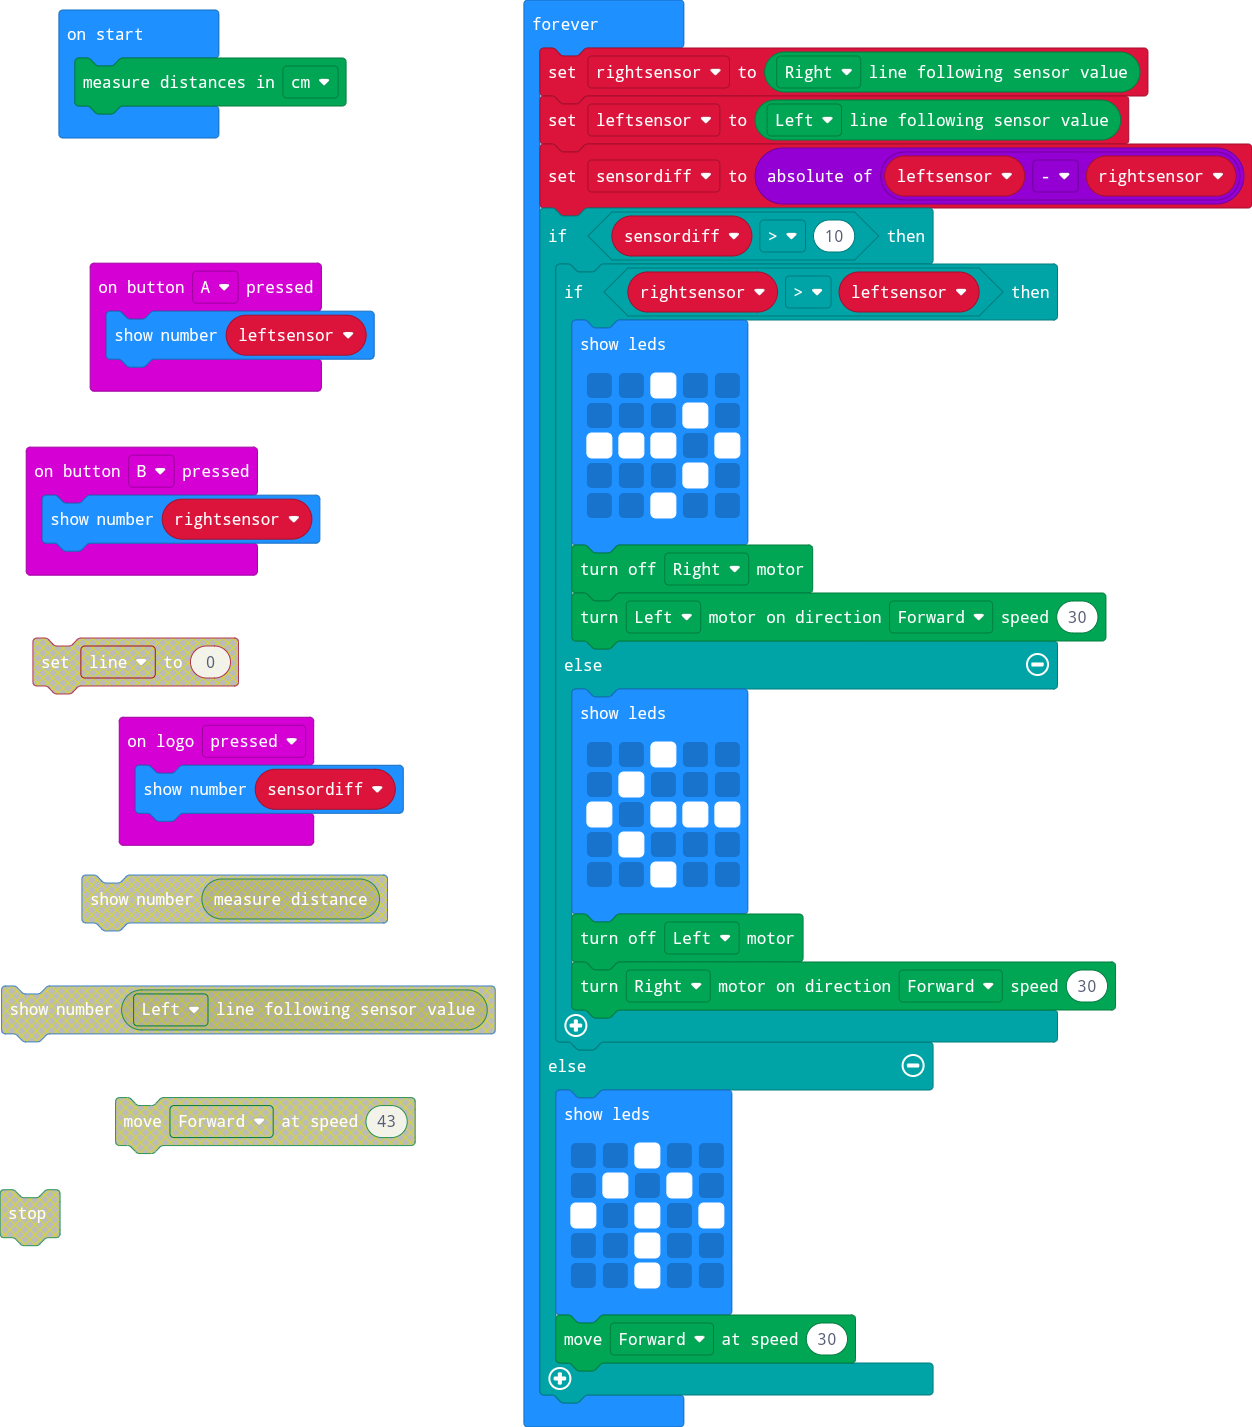
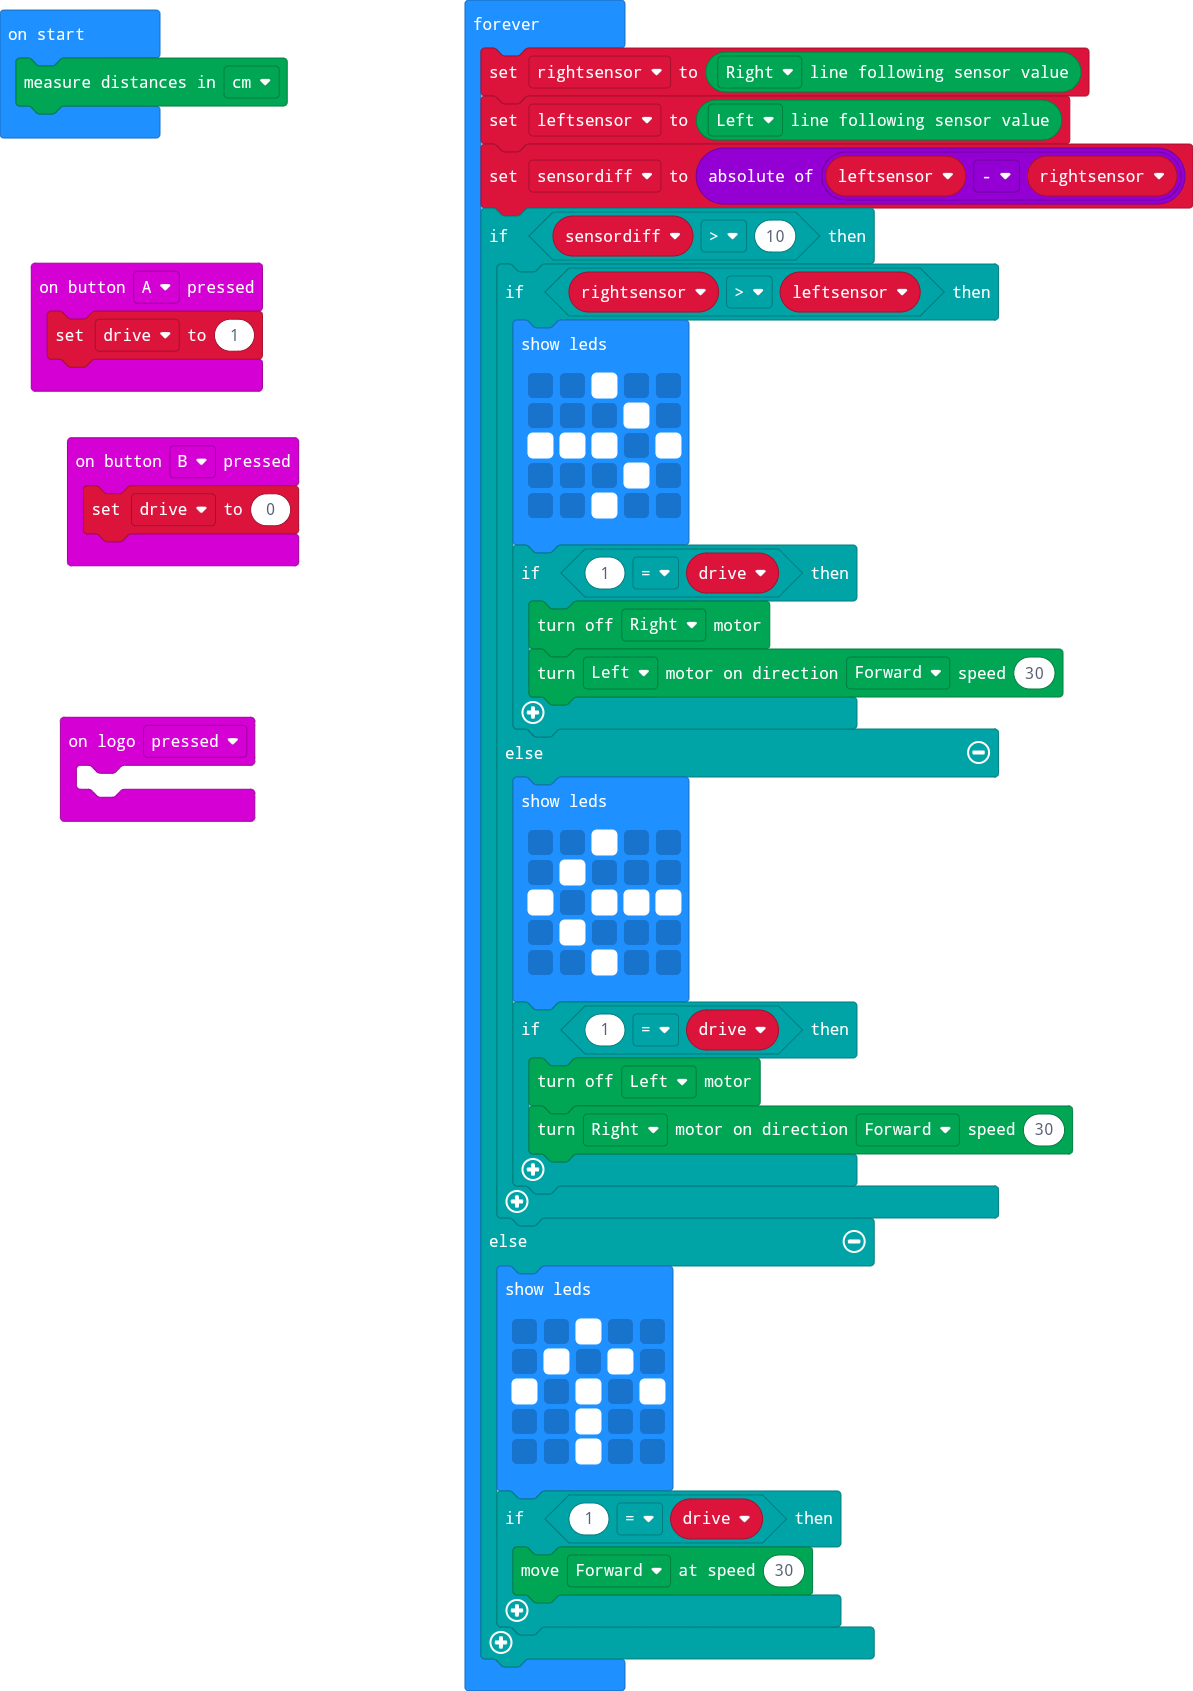
Update main.blocks, main.ts

diff --git a/main.ts b/main.ts
@@ -1,15 +1,16 @@
 input.onButtonPressed(Button.A, function () {
-    basic.showNumber(leftsensor)
+    drive = 1
 })
 input.onButtonPressed(Button.B, function () {
-    basic.showNumber(rightsensor)
+    drive = 0
 })
 input.onLogoEvent(TouchButtonEvent.Pressed, function () {
-    basic.showNumber(sensordiff)
+	
 })
 let sensordiff = 0
-let rightsensor = 0
 let leftsensor = 0
+let rightsensor = 0
+let drive = 0
 Kitronik_Move_Motor.setUltrasonicUnits(Kitronik_Move_Motor.Units.Centimeters)
 basic.forever(function () {
     rightsensor = Kitronik_Move_Motor.readSensor(Kitronik_Move_Motor.LfSensor.Right)
@@ -24,8 +25,10 @@ basic.forever(function () {
                 . . . # .
                 . . # . .
                 `)
-            Kitronik_Move_Motor.motorOff(Kitronik_Move_Motor.Motors.MotorRight)
-            Kitronik_Move_Motor.motorOn(Kitronik_Move_Motor.Motors.MotorLeft, Kitronik_Move_Motor.MotorDirection.Forward, 30)
+            if (1 == drive) {
+                Kitronik_Move_Motor.motorOff(Kitronik_Move_Motor.Motors.MotorRight)
+                Kitronik_Move_Motor.motorOn(Kitronik_Move_Motor.Motors.MotorLeft, Kitronik_Move_Motor.MotorDirection.Forward, 30)
+            }
         } else {
             basic.showLeds(`
                 . . # . .
@@ -34,8 +37,10 @@ basic.forever(function () {
                 . # . . .
                 . . # . .
                 `)
-            Kitronik_Move_Motor.motorOff(Kitronik_Move_Motor.Motors.MotorLeft)
-            Kitronik_Move_Motor.motorOn(Kitronik_Move_Motor.Motors.MotorRight, Kitronik_Move_Motor.MotorDirection.Forward, 30)
+            if (1 == drive) {
+                Kitronik_Move_Motor.motorOff(Kitronik_Move_Motor.Motors.MotorLeft)
+                Kitronik_Move_Motor.motorOn(Kitronik_Move_Motor.Motors.MotorRight, Kitronik_Move_Motor.MotorDirection.Forward, 30)
+            }
         }
     } else {
         basic.showLeds(`
@@ -45,6 +50,8 @@ basic.forever(function () {
             . . # . .
             . . # . .
             `)
-        Kitronik_Move_Motor.move(Kitronik_Move_Motor.DriveDirections.Forward, 30)
+        if (1 == drive) {
+            Kitronik_Move_Motor.move(Kitronik_Move_Motor.DriveDirections.Forward, 30)
+        }
     }
 })
